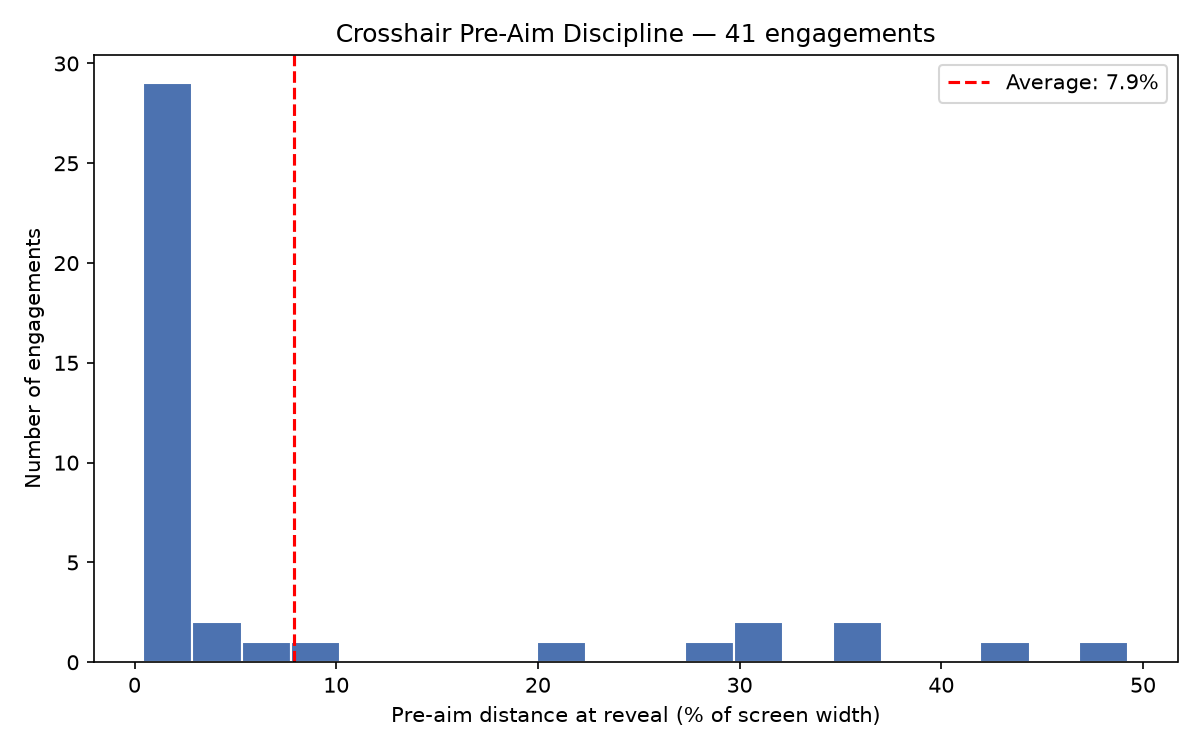
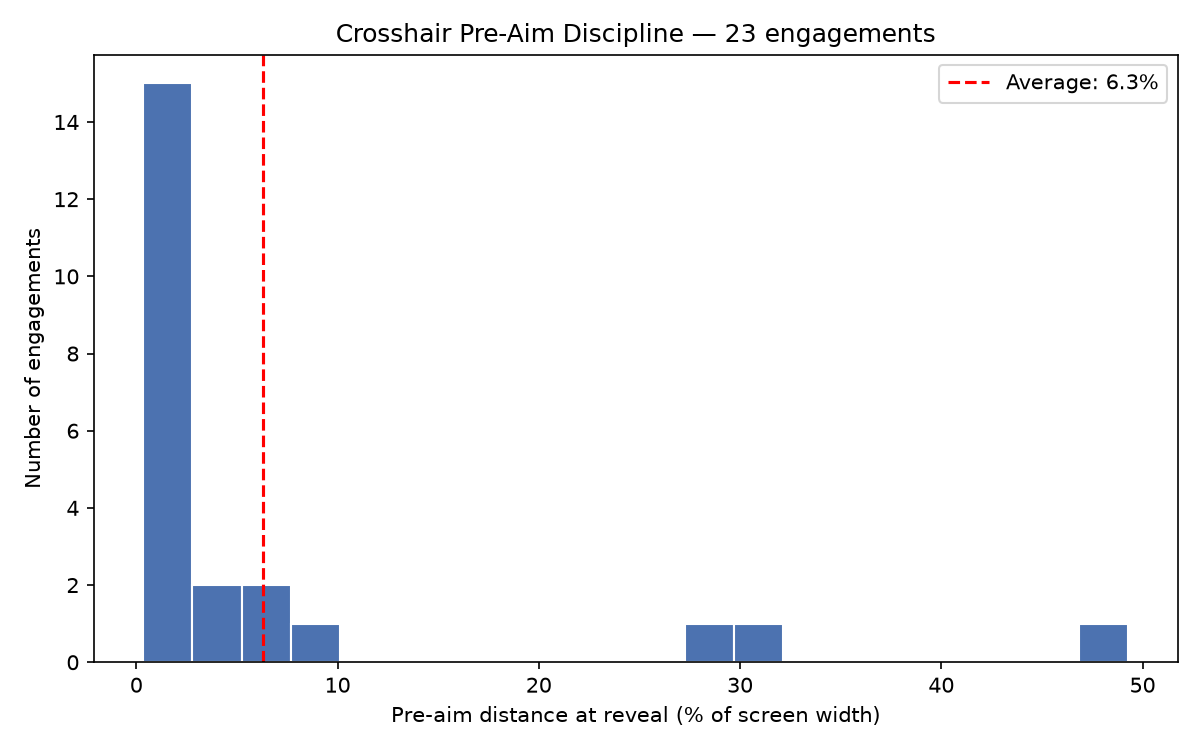
Swap grayscale head detector into main pipeline, fix stale-output bug
analyze_crosshair_placement.py now uses the grayscale-trained head
detector (fed a grayscale copy of each frame; body detector still color).
Rerun: 23 engagements at 6.28% avg pre-aim, down from 41/7.91% with the
color model - not yet audited to confirm whether this is fewer false
positives or missed real reveals. Also clear engagements/ before each
run so stale frames from prior runs stop mixing in.

diff --git a/analyze_crosshair_placement.py b/analyze_crosshair_placement.py
@@ -8,13 +8,14 @@
 
 import csv
 import os
+import shutil
 
 import cv2
 import matplotlib.pyplot as plt
 from ultralytics import YOLO
 
 CLIP_PATH = r"C:\Users\alexh\Videos\NVIDIA\Valorant\Valorant 2026.08.14 - 19.49.11.07.mp4"
-HEAD_MODEL_PATH = "runs/detect/runs/valorant_head_v1/weights/best.pt"
+HEAD_MODEL_PATH = "runs/detect/runs/valorant_head_gray_v1/weights/best.pt"
 BODY_MODEL_PATH = "runs/detect/runs/valorant_enemy_v1-3/weights/best.pt"
 OUTPUT_DIR = "engagements"
 
@@ -49,6 +50,11 @@ def point_in_box(px, py, box):
 
 
 def main():
+    # Clear old annotated frames first - otherwise a rerun (e.g. after
+    # swapping models) leaves stale frames from the previous run mixed in
+    # with the new ones, since filenames are timestamp-based and rarely
+    # collide.
+    shutil.rmtree(OUTPUT_DIR, ignore_errors=True)
     os.makedirs(OUTPUT_DIR, exist_ok=True)
     head_model = YOLO(HEAD_MODEL_PATH)
     body_model = YOLO(BODY_MODEL_PATH)
@@ -81,7 +87,14 @@ def main():
         sample_index += 1
         timestamp = frame_index / source_fps
 
-        head_results = head_model(frame, conf=HEAD_CONF_THRESHOLD, verbose=False)
+        # Head model was trained on grayscale-only images (see
+        # make_grayscale_dataset.py) to reduce sensitivity to Enemy
+        # Highlight Color - must feed it grayscale input too, or it sees
+        # a different input distribution than it trained on. Body model
+        # below stays color, since it's still the color-trained detector.
+        gray = cv2.cvtColor(frame, cv2.COLOR_BGR2GRAY)
+        head_input = cv2.cvtColor(gray, cv2.COLOR_GRAY2BGR)
+        head_results = head_model(head_input, conf=HEAD_CONF_THRESHOLD, verbose=False)
         head_boxes = head_results[0].boxes
 
         body_boxes_xyxy = []

diff --git a/PLAN.md b/PLAN.md
@@ -445,6 +445,28 @@ discipline from a player's *own real match footage*.
   `colortest_annotated_{Yellow,Purple,Red}.jpg` (color model baseline) and
   `graytest_annotated_{Yellow,Purple,Red}.jpg` (grayscale model) —
   `test_grayscale_colorinvariance.py` regenerates both sets.
+- **Grayscale head detector swapped into the main pipeline
+  (`analyze_crosshair_placement.py`).** Two changes: `HEAD_MODEL_PATH` now
+  points at `valorant_head_gray_v1/weights/best.pt`, and the frame fed to
+  the head model is grayscale-converted first (a throwaway in-memory copy
+  — the saved annotated output still uses the original color frame, so
+  boxes stay visually checkable; body/`enemies` detector is untouched,
+  still runs on the color frame). Rerun on the same Deathmatch clip:
+  **23 engagements, average pre-aim 6.28%** (previous color-model run: 41
+  engagements, 7.91%). Engagement count nearly halved — not yet root-
+  caused. Two competing explanations, not yet distinguished: the gray
+  model could be more conservative and missing real reveals it used to
+  catch (its recall was already lower, 0.850 vs 0.885), or it could be
+  correctly rejecting false positives the color model let through. **Not
+  yet spot-checked/audited** the way the original 41-engagement result
+  was (11 frames across the full distribution, confirmed genuine) —
+  needed before trusting the 6.28% number. Do that audit before using
+  this result anywhere.
+  Also fixed while here: `analyze_crosshair_placement.py` didn't clear
+  `OUTPUT_DIR` (`engagements/`) before writing, so reruns left stale
+  frames from previous runs mixed in with new ones (only caught because
+  the two runs happened to produce different engagement counts/
+  timestamps) — now does `shutil.rmtree` on the folder first.
 
 ## How to continue on a new machine / new Claude Code session
 1. Install Python (winget: `winget install --id Python.Python.3.12`) and
